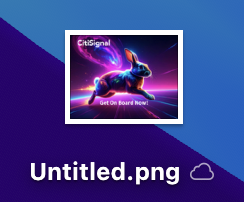
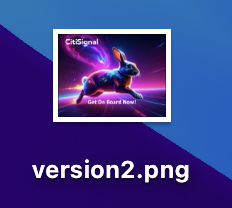
frame.io approval v2

Changed region(s): [[0.0, 0.0891, 1.0, 0.9208]]

diff --git a/help/tutorial-one-adobe/modules/creation-production/module1.5/ex2.md b/help/tutorial-one-adobe/modules/creation-production/module1.5/ex2.md
@@ -118,9 +118,17 @@ In the **Status** field, change the status to **Needs Review**.
 
 ![Frame.io](./images/frameioappr9.png)
 
-You should then have this.
+You should then have this. Go back to the folder by clicking the arrow to go back.
 
 ![Frame.io](./images/frameioappr10.png)
+
+Click the 3 dots **...** and slect **Rename**.
+
+![Frame.io](./images/frameioappr11.png)
+
+Change the file name to `version1.png`.
+
+![Frame.io](./images/frameioappr12.png)
 
 ## 1.5.2.3 Make design changes in Adobe Express
 
@@ -140,9 +148,47 @@ Click **Download**.
 
 ![WF](./images/frameioasset6.png)
 
-You'll then have a new image downloaded on your local machine.
+You'll then have a new image downloaded on your local machine. Rename the file to `version2.png`.
 
 ![WF](./images/frameioasset7.png)
+
+## 1.5.2.4 Approve version2 in Frame.io
+
+In your folder in Frame.io, click the **+** icon and select **Upload Asset**.
+
+![Frame.io](./images/frameioappr13.png)
+
+Select the file **version2.png** and click **Open**.
+
+![Frame.io](./images/frameioappr14.png)
+
+Next, drag the file **version2.png** on top of the file **version1.png**. This action will enable version stacking in Frame.io.
+
+![Frame.io](./images/frameioappr15.png)
+
+You should then see this.
+
+![Frame.io](./images/frameioappr16.png)
+
+Click the 3 dots **...** on the image and then select **Compare Versions**.
+
+![Frame.io](./images/frameioappr17.png)
+
+You should then see this comparison view which shows both version of the file. Go to **Fields**.
+
+![Frame.io](./images/frameioappr18.png)
+
+CHange the field **Status** to **Approved**.
+
+![Frame.io](./images/frameioappr19.png)
+
+You should then have this. Click the arrow icon to go back to your folder view.
+
+![Frame.io](./images/frameioappr20.png)
+
+Click the 3 dots **...** and select **Download** in case you'd like to use this file in another application.
+
+![Frame.io](./images/frameioappr21.png)
 
 ## Next Steps
 
